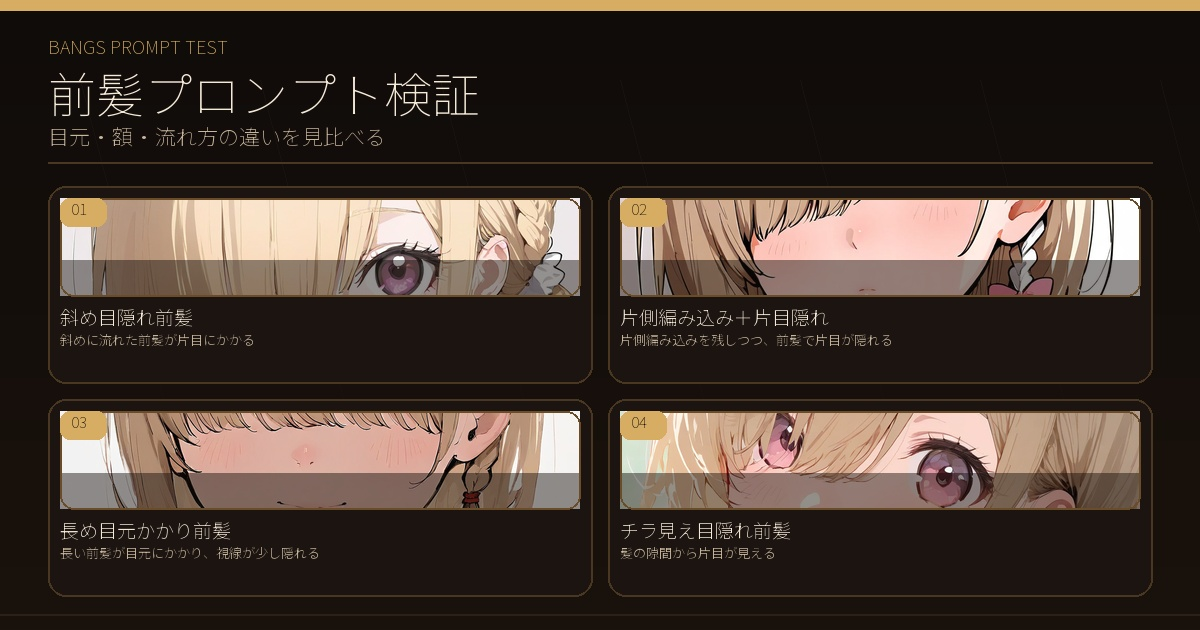
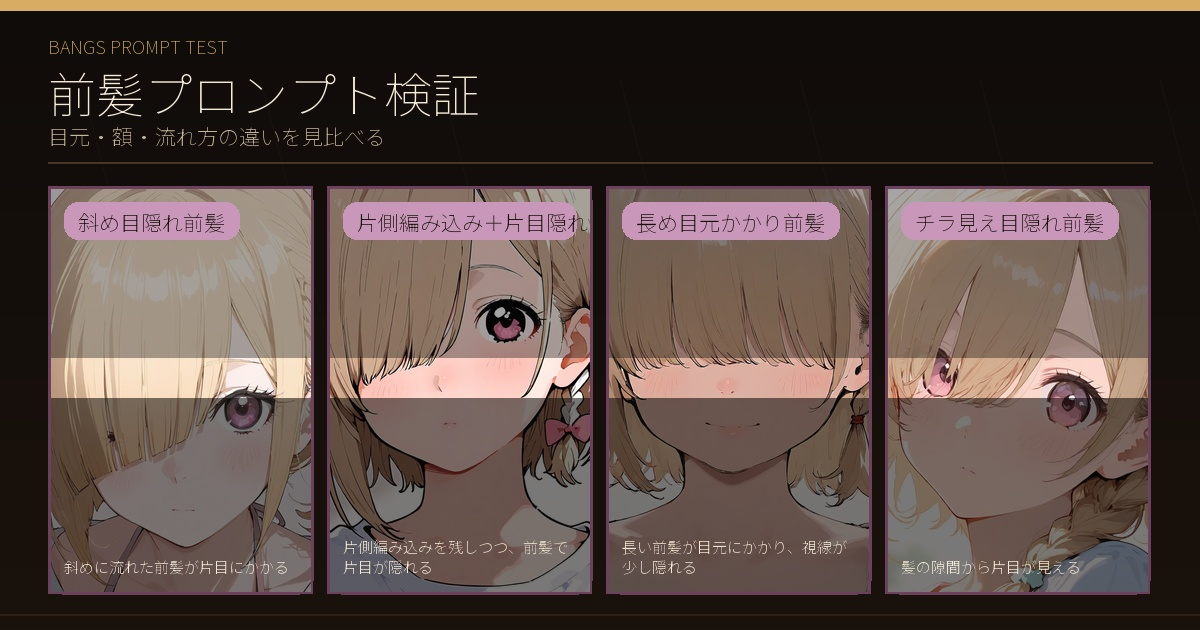
Add portrait research intro visuals

diff --git a/research/index.html b/research/index.html
@@ -56,8 +56,8 @@
             </div>
           </div>
           <figure class="research-intro-visual">
-            <button class="research-intro-trigger" type="button" data-full-src="../assets/images/research/intro/research_overview_1200x630.jpg" data-full-alt="えすなむら研究室の生成検証カテゴリ紹介画像" aria-label="えすなむら研究室の生成検証カテゴリ紹介画像を拡大表示">
-              <img src="../assets/images/research/intro/research_overview_1200x630.jpg" alt="えすなむら研究室の生成検証カテゴリ紹介画像" width="1200" height="630" loading="eager" decoding="async">
+            <button class="research-intro-trigger" type="button" data-full-src="../assets/images/research/intro/research_overview_1080x1350.jpg" data-full-alt="えすなむら研究室の生成検証カテゴリ紹介画像" aria-label="えすなむら研究室の生成検証カテゴリ紹介画像を拡大表示">
+              <img src="../assets/images/research/intro/research_overview_1080x1350.jpg" alt="えすなむら研究室の生成検証カテゴリ紹介画像" width="1080" height="1350" loading="eager" decoding="async">
             </button>
           </figure>
         </section>
@@ -113,7 +113,3 @@
 
   </body>
 </html>
-
-
-
-

diff --git a/research/hair-color/index.html b/research/hair-color/index.html
@@ -63,8 +63,8 @@
             </div>
           </div>
           <figure class="research-intro-visual">
-            <button class="research-intro-trigger" type="button" data-full-src="../../assets/images/research/intro/research_hair_color_1200x630.jpg" data-full-alt="髪色プロンプト検証の紹介画像" aria-label="髪色プロンプト検証の紹介画像を拡大表示">
-              <img src="../../assets/images/research/intro/research_hair_color_1200x630.jpg" alt="髪色プロンプト検証の紹介画像" width="1200" height="630" loading="eager" decoding="async">
+            <button class="research-intro-trigger" type="button" data-full-src="../../assets/images/research/intro/research_hair_color_1080x1350.jpg" data-full-alt="髪色プロンプト検証の紹介画像" aria-label="髪色プロンプト検証の紹介画像を拡大表示">
+              <img src="../../assets/images/research/intro/research_hair_color_1080x1350.jpg" alt="髪色プロンプト検証の紹介画像" width="1080" height="1350" loading="eager" decoding="async">
             </button>
           </figure>
         </section>
@@ -85,16 +85,3 @@
 
   </body>
 </html>
-
-
-
-
-
-
-
-
-
-
-
-
-

diff --git a/research/hairstyle/index.html b/research/hairstyle/index.html
@@ -63,8 +63,8 @@
             </div>
           </div>
           <figure class="research-intro-visual">
-            <button class="research-intro-trigger" type="button" data-full-src="../../assets/images/research/intro/research_hairstyle_1200x630.jpg" data-full-alt="髪型プロンプト検証の紹介画像" aria-label="髪型プロンプト検証の紹介画像を拡大表示">
-              <img src="../../assets/images/research/intro/research_hairstyle_1200x630.jpg" alt="髪型プロンプト検証の紹介画像" width="1200" height="630" loading="eager" decoding="async">
+            <button class="research-intro-trigger" type="button" data-full-src="../../assets/images/research/intro/research_hairstyle_1080x1350.jpg" data-full-alt="髪型プロンプト検証の紹介画像" aria-label="髪型プロンプト検証の紹介画像を拡大表示">
+              <img src="../../assets/images/research/intro/research_hairstyle_1080x1350.jpg" alt="髪型プロンプト検証の紹介画像" width="1080" height="1350" loading="eager" decoding="async">
             </button>
           </figure>
         </section>
@@ -85,16 +85,3 @@
 
   </body>
 </html>
-
-
-
-
-
-
-
-
-
-
-
-
-

diff --git a/research/bangs/index.html b/research/bangs/index.html
@@ -63,8 +63,8 @@
             </div>
           </div>
           <figure class="research-intro-visual">
-            <button class="research-intro-trigger" type="button" data-full-src="../../assets/images/research/intro/research_bangs_1200x630.jpg" data-full-alt="前髪プロンプト検証の紹介画像" aria-label="前髪プロンプト検証の紹介画像を拡大表示">
-              <img src="../../assets/images/research/intro/research_bangs_1200x630.jpg" alt="前髪プロンプト検証の紹介画像" width="1200" height="630" loading="eager" decoding="async">
+            <button class="research-intro-trigger" type="button" data-full-src="../../assets/images/research/intro/research_bangs_1080x1350.jpg" data-full-alt="前髪プロンプト検証の紹介画像" aria-label="前髪プロンプト検証の紹介画像を拡大表示">
+              <img src="../../assets/images/research/intro/research_bangs_1080x1350.jpg" alt="前髪プロンプト検証の紹介画像" width="1080" height="1350" loading="eager" decoding="async">
             </button>
           </figure>
         </section>
@@ -85,16 +85,3 @@
 
   </body>
 </html>
-
-
-
-
-
-
-
-
-
-
-
-
-

diff --git a/research/background/index.html b/research/background/index.html
@@ -63,8 +63,8 @@
             </div>
           </div>
           <figure class="research-intro-visual">
-            <button class="research-intro-trigger" type="button" data-full-src="../../assets/images/research/intro/research_background_1200x630.jpg" data-full-alt="背景プロンプト検証の紹介画像" aria-label="背景プロンプト検証の紹介画像を拡大表示">
-              <img src="../../assets/images/research/intro/research_background_1200x630.jpg" alt="背景プロンプト検証の紹介画像" width="1200" height="630" loading="eager" decoding="async">
+            <button class="research-intro-trigger" type="button" data-full-src="../../assets/images/research/intro/research_background_1080x1350.jpg" data-full-alt="背景プロンプト検証の紹介画像" aria-label="背景プロンプト検証の紹介画像を拡大表示">
+              <img src="../../assets/images/research/intro/research_background_1080x1350.jpg" alt="背景プロンプト検証の紹介画像" width="1080" height="1350" loading="eager" decoding="async">
             </button>
           </figure>
         </section>

diff --git a/style.css b/style.css
@@ -1976,8 +1976,8 @@ h2 {
 }
 
 .research-hero-with-visual .research-intro-trigger img {
-  aspect-ratio: 1200 / 630;
-  max-height: 230px;
+  aspect-ratio: 1080 / 1350;
+  max-height: 360px;
   object-fit: contain;
 }
 
@@ -2060,7 +2060,7 @@ h2 {
   }
 
   .research-hero-with-visual .research-intro-trigger img {
-    max-height: 210px;
+    max-height: 300px;
   }
 }
 
@@ -2094,7 +2094,7 @@ h2 {
   }
 
   .research-hero-with-visual .research-intro-trigger img {
-    max-height: 150px;
+    max-height: 240px;
   }
 
   .image-lightbox {
